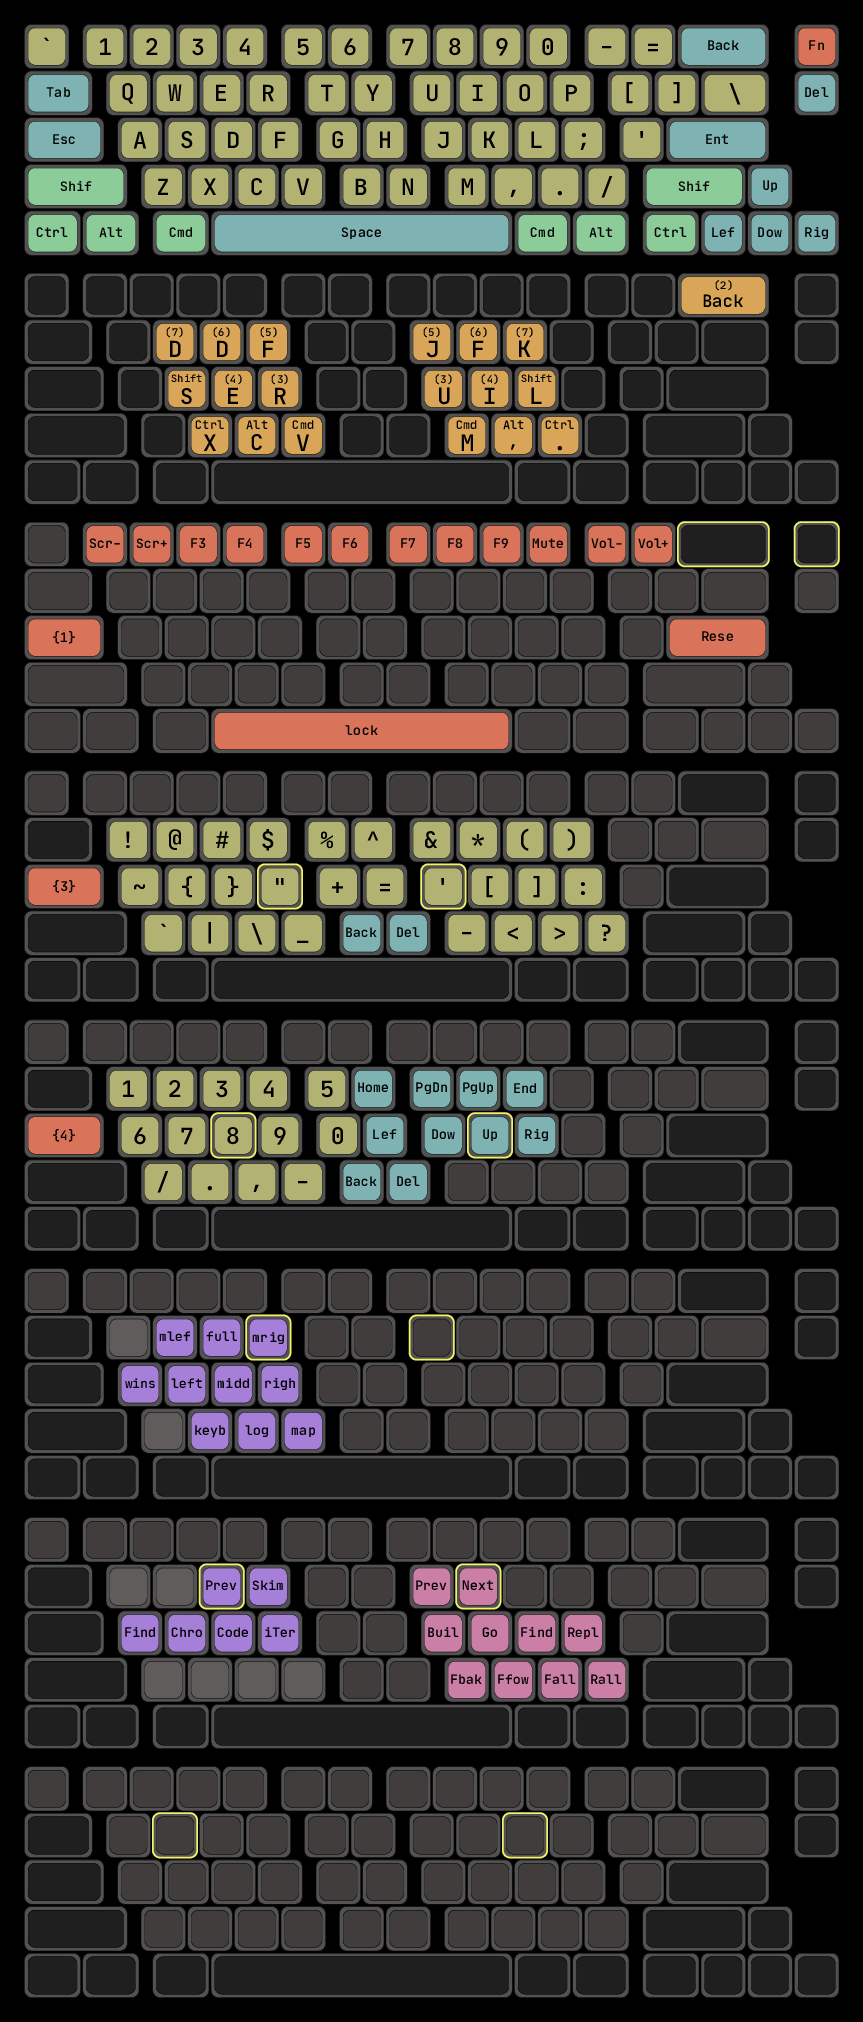
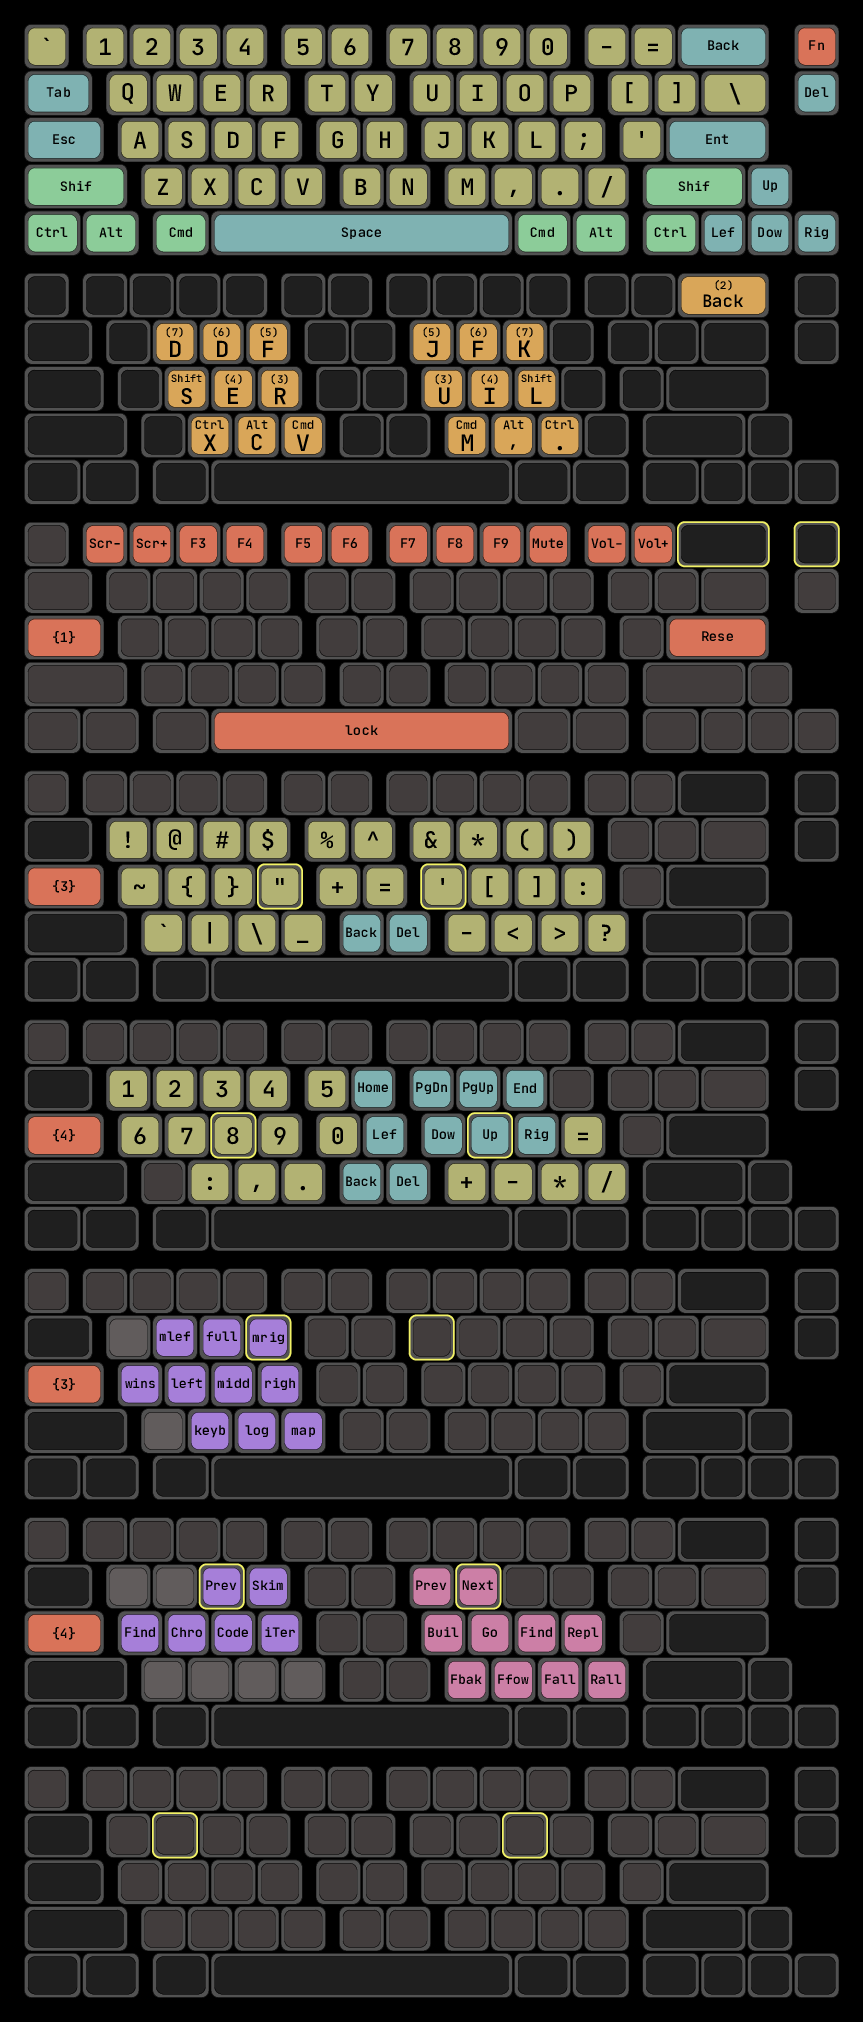
isolate bug

diff --git a/2020-04-05/keymap.c b/2020-04-05/keymap.c
@@ -1,0 +1,62 @@
+// Copyright 2020 Dave Bayer davebayer@mac.com @Syzygies <https://unlicense.org>
+
+#include QMK_KEYBOARD_H
+
+const uint16_t PROGMEM keymaps[][MATRIX_ROWS][MATRIX_COLS] = {
+  [0] = LAYOUT(
+    KC_GRV  , KC_1       , KC_2         , KC_3         , KC_4         , KC_5    , KC_6    , KC_7          , KC_8            , KC_9           , KC_0       , KC_MINS     , KC_EQL    , KC_BSPC       , MO(2)   ,
+    KC_TAB  , KC_Q       , KC_W         , KC_E         , KC_R         , KC_T    , KC_Y    , KC_U          , KC_I            , KC_O           , KC_P       , KC_LBRC     , KC_RBRC   , KC_BSLS       , KC_DEL  ,
+    KC_ESC  , KC_A       , KC_S         , KC_D         , KC_F         , KC_G    , KC_H    , KC_J          , KC_K            , KC_L           , KC_SCLN    , KC_QUOT     , KC_ENT    ,
+    KC_LSFT , KC_Z       , KC_X         , KC_C         , KC_V         , KC_B    , KC_N    , KC_M          , KC_COMM         , KC_DOT         , KC_SLSH    , KC_RSFT     , KC_UP     ,
+    KC_LCTL , KC_LALT    , KC_LGUI      , KC_SPC       , KC_RGUI      , KC_RALT , KC_RCTL , KC_LEFT       , KC_DOWN         , KC_RGHT        
+  ),
+  [1] = LAYOUT(
+    _______ , _______    , _______      , _______      , _______      , _______ , _______ , _______       , _______         , _______        , _______    , _______     , _______   , LT(2,KC_BSPC) , _______ ,
+    _______ , _______    , LT(7,KC_W)   , LT(6,KC_E)   , LT(5,KC_R)   , _______ , _______ , LT(5,KC_U)    , LT(6,KC_I)      , LT(7,KC_O)     , _______    , _______     , _______   , _______       , _______ ,
+    _______ , _______    , LSFT_T(KC_S) , LT(4,KC_D)   , LT(3,KC_F)   , _______ , _______ , LT(3,KC_J)    , LT(4,KC_K)      , RSFT_T(KC_L)   , _______    , _______     , _______   ,
+    _______ , _______    , LCTL_T(KC_X) , LALT_T(KC_C) , LGUI_T(KC_V) , _______ , _______ , RGUI_T(KC_M)  , RALT_T(KC_COMM) , RCTL_T(KC_DOT) , _______    , _______     , _______   ,
+    _______ , _______    , _______      , _______      , _______      , _______ , _______ , _______       , _______         , _______        
+  ),
+  [2] = LAYOUT(
+    XXXXXXX , KC_F1      , KC_F2        , KC_F3        , KC_F4        , KC_F5   , KC_F6   , KC_F7         , KC_F8           , KC_F9          , KC__MUTE   , KC__VOLDOWN , KC__VOLUP , _______       , _______ ,
+    XXXXXXX , XXXXXXX    , XXXXXXX      , XXXXXXX      , XXXXXXX      , XXXXXXX , XXXXXXX , XXXXXXX       , XXXXXXX         , XXXXXXX        , XXXXXXX    , XXXXXXX     , XXXXXXX   , XXXXXXX       , XXXXXXX ,
+    TG(1)   , XXXXXXX    , XXXXXXX      , XXXXXXX      , XXXXXXX      , XXXXXXX , XXXXXXX , XXXXXXX       , XXXXXXX         , XXXXXXX        , XXXXXXX    , XXXXXXX     , RESET     ,
+    XXXXXXX , XXXXXXX    , XXXXXXX      , XXXXXXX      , XXXXXXX      , XXXXXXX , XXXXXXX , XXXXXXX       , XXXXXXX         , XXXXXXX        , XXXXXXX    , XXXXXXX     , XXXXXXX   ,
+    XXXXXXX , XXXXXXX    , XXXXXXX      , MEH(KC_SPC)  , XXXXXXX      , XXXXXXX , XXXXXXX , XXXXXXX       , XXXXXXX         , XXXXXXX        
+  ),
+  [3] = LAYOUT(
+    XXXXXXX , XXXXXXX    , XXXXXXX      , XXXXXXX      , XXXXXXX      , XXXXXXX , XXXXXXX , XXXXXXX       , XXXXXXX         , XXXXXXX        , XXXXXXX    , XXXXXXX     , XXXXXXX   , _______       , _______ ,
+    _______ , KC_EXLM    , KC_AT        , KC_HASH      , KC_DLR       , KC_PERC , KC_CIRC , KC_AMPR       , KC_ASTR         , KC_LPRN        , KC_RPRN    , XXXXXXX     , XXXXXXX   , XXXXXXX       , _______ ,
+    TG(3)   , KC_TILD    , KC_LCBR      , KC_RCBR      , KC_DQUO      , KC_PLUS , KC_EQL  , KC_QUOT       , KC_LBRC         , KC_RBRC        , KC_COLN    , XXXXXXX     , _______   ,
+    _______ , KC_GRV     , KC_PIPE      , KC_BSLS      , KC_UNDS      , KC_BSPC , KC_DEL  , KC_MINS       , KC_LT           , KC_GT          , KC_QUES    , _______     , _______   ,
+    _______ , _______    , _______      , _______      , _______      , _______ , _______ , _______       , _______         , _______        
+  ),
+  [4] = LAYOUT(
+    XXXXXXX , XXXXXXX    , XXXXXXX      , XXXXXXX      , XXXXXXX      , XXXXXXX , XXXXXXX , XXXXXXX       , XXXXXXX         , XXXXXXX        , XXXXXXX    , XXXXXXX     , XXXXXXX   , _______       , _______ ,
+    _______ , KC_1       , KC_2         , KC_3         , KC_4         , KC_5    , KC_HOME , KC_PGDOWN     , KC_PGUP         , KC_END         , XXXXXXX    , XXXXXXX     , XXXXXXX   , XXXXXXX       , _______ ,
+    TG(4)   , KC_6       , KC_7         , KC_8         , KC_9         , KC_0    , KC_LEFT , KC_DOWN       , KC_UP           , KC_RGHT        , KC_EQL     , XXXXXXX     , _______   ,
+    _______ , XXXXXXX    , KC_COLN      , KC_COMM      , KC_DOT       , KC_BSPC , KC_DEL  , KC_PLUS       , KC_MINS         , KC_ASTR        , KC_SLSH    , _______     , _______   ,
+    _______ , _______    , _______      , _______      , _______      , _______ , _______ , _______       , _______         , _______        
+  ),
+  [5] = LAYOUT(
+    XXXXXXX , XXXXXXX    , XXXXXXX      , XXXXXXX      , XXXXXXX      , XXXXXXX , XXXXXXX , XXXXXXX       , XXXXXXX         , XXXXXXX        , XXXXXXX    , XXXXXXX     , XXXXXXX   , _______       , _______ ,
+    _______ , MEH(KC_Q)  , MEH(KC_W)    , MEH(KC_E)    , MEH(KC_R)    , XXXXXXX , XXXXXXX , XXXXXXX       , XXXXXXX         , XXXXXXX        , XXXXXXX    , XXXXXXX     , XXXXXXX   , XXXXXXX       , _______ ,
+    TG(3)   , MEH(KC_A)  , MEH(KC_S)    , MEH(KC_D)    , MEH(KC_F)    , XXXXXXX , XXXXXXX , XXXXXXX       , XXXXXXX         , XXXXXXX        , XXXXXXX    , XXXXXXX     , _______   ,
+    _______ , MEH(KC_Z)  , MEH(KC_X)    , MEH(KC_C)    , MEH(KC_V)    , XXXXXXX , XXXXXXX , XXXXXXX       , XXXXXXX         , XXXXXXX        , XXXXXXX    , _______     , _______   ,
+    _______ , _______    , _______      , _______      , _______      , _______ , _______ , _______       , _______         , _______        
+  ),
+  [6] = LAYOUT(
+    XXXXXXX , XXXXXXX    , XXXXXXX      , XXXXXXX      , XXXXXXX      , XXXXXXX , XXXXXXX , XXXXXXX       , XXXXXXX         , XXXXXXX        , XXXXXXX    , XXXXXXX     , XXXXXXX   , _______       , _______ ,
+    _______ , HYPR(KC_Q) , HYPR(KC_W)   , HYPR(KC_E)   , HYPR(KC_R)   , XXXXXXX , XXXXXXX , S(G(KC_LBRC)) , S(G(KC_RBRC))   , XXXXXXX        , XXXXXXX    , XXXXXXX     , XXXXXXX   , XXXXXXX       , _______ ,
+    TG(4)   , HYPR(KC_A) , HYPR(KC_S)   , HYPR(KC_D)   , HYPR(KC_F)   , XXXXXXX , XXXXXXX , SCMD(KC_B)    , G(KC_P)         , G(KC_F)        , A(G(KC_F)) , XXXXXXX     , _______   ,
+    _______ , HYPR(KC_Z) , HYPR(KC_X)   , HYPR(KC_C)   , HYPR(KC_V)   , XXXXXXX , XXXXXXX , S(G(KC_G))    , G(KC_G)         , S(G(KC_F))     , S(G(KC_H)) , _______     , _______   ,
+    _______ , _______    , _______      , _______      , _______      , _______ , _______ , _______       , _______         , _______        
+  ),
+  [7] = LAYOUT(
+    XXXXXXX , XXXXXXX    , XXXXXXX      , XXXXXXX      , XXXXXXX      , XXXXXXX , XXXXXXX , XXXXXXX       , XXXXXXX         , XXXXXXX        , XXXXXXX    , XXXXXXX     , XXXXXXX   , _______       , _______ ,
+    _______ , XXXXXXX    , XXXXXXX      , XXXXXXX      , XXXXXXX      , XXXXXXX , XXXXXXX , XXXXXXX       , XXXXXXX         , XXXXXXX        , XXXXXXX    , XXXXXXX     , XXXXXXX   , XXXXXXX       , _______ ,
+    _______ , XXXXXXX    , XXXXXXX      , XXXXXXX      , XXXXXXX      , XXXXXXX , XXXXXXX , XXXXXXX       , XXXXXXX         , XXXXXXX        , XXXXXXX    , XXXXXXX     , _______   ,
+    _______ , XXXXXXX    , XXXXXXX      , XXXXXXX      , XXXXXXX      , XXXXXXX , XXXXXXX , XXXXXXX       , XXXXXXX         , XXXXXXX        , XXXXXXX    , _______     , _______   ,
+    _______ , _______    , _______      , _______      , _______      , _______ , _______ , _______       , _______         , _______        
+  )
+};

diff --git a/2020-04-05/config.h b/2020-04-05/config.h
@@ -1,0 +1,11 @@
+// Copyright 2020 Dave Bayer davebayer@mac.com @Syzygies <https://unlicense.org>
+
+#pragma once
+
+#undef TAPPING_TERM
+#define TAPPING_TERM 300
+#define RETRO_TAPPING
+#define IGNORE_MOD_TAP_INTERRUPT
+
+#undef BACKLIGHT_LEVELS
+#define BACKLIGHT_LEVELS 11

diff --git a/2020-04-05/readme.md b/2020-04-05/readme.md
@@ -1,0 +1,11 @@
+# Dave Bayer's keymap for the fc660c
+
+(as of 2020-04-05, for a bug report)
+
+These links will be updated over time:
+
+- [dz60](https://github.com/Syzygies/qmk_firmware/tree/syzygies/keyboards/dz60/keymaps/syzygies)
+- [fc660c](https://github.com/Syzygies/qmk_firmware/tree/syzygies/keyboards/fc660c/keymaps/syzygies)
+- [planck](https://github.com/Syzygies/qmk_firmware/tree/syzygies/keyboards/planck/keymaps/syzygies)
+
+![layout](https://raw.githubusercontent.com/Syzygies/log_folders/master/keyboards/fc660c/keymap.png)
